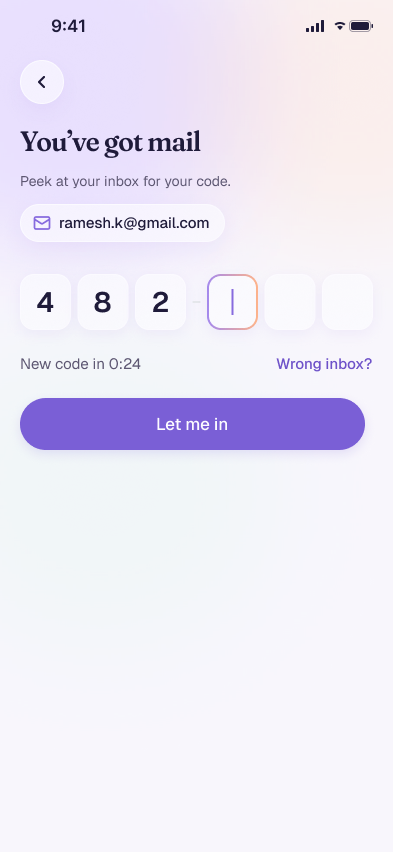
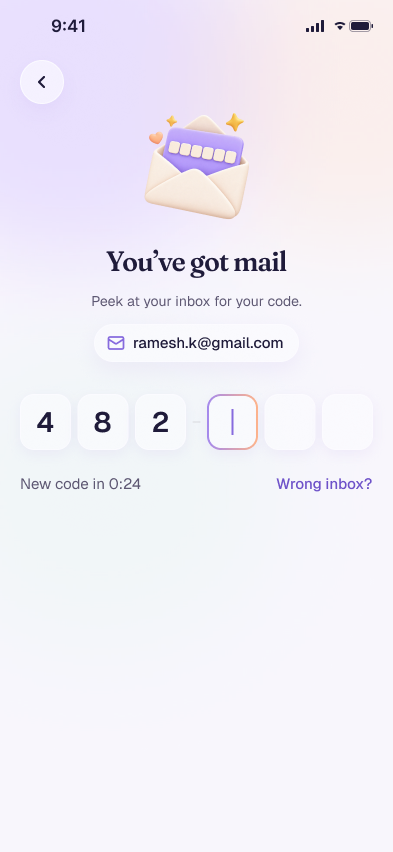
feat(case-study): refresh app screens from Figma, add 23 new ones; app moves to roomie-mobile.vercel.app
Six screens were out of date (code screens, welcome back, missed chore,
you're in, all set) and are replaced. New rows show the house plant growing
and a week of nudges, and the login, join, pantry and profile rows gain the
missing screens. Counts now read 73. The app has a clean address, and the
README, site links and deploy script point to it.

Changed region(s): [[0.0305, 0.1221, 0.9466, 0.5798], [0.0916, 0.3357, 0.1527, 0.3662], [0.916, 0.3967, 0.9466, 0.4272]]

diff --git a/apps/case-study/src/components/roomie/content/prototype.ts b/apps/case-study/src/components/roomie/content/prototype.ts
@@ -2,7 +2,7 @@
 export const prototypeHtml = `
 <section class="phase ph-pro" id="prototype">
   <div class="wrap">
-  <header class="phase-head"><span class="phi" aria-hidden="true"><svg viewBox="0 0 24 24"><rect x="6.5" y="2.5" width="11" height="19" rx="2.8"/><path d="M10.5 18.5h3M9.5 7h5M9.5 10.5h5"/></svg></span><span class="num">04</span><h2>Prototype</h2><b class="ess">Designed to lower the&nbsp;temperature.</b><p>From information architecture and a 38-screen map, through lo-fi wireframes, to 62 hi-fi screens and a visual identity built to lower the&nbsp;temperature.</p></header>
+  <header class="phase-head"><span class="phi" aria-hidden="true"><svg viewBox="0 0 24 24"><rect x="6.5" y="2.5" width="11" height="19" rx="2.8"/><path d="M10.5 18.5h3M9.5 7h5M9.5 10.5h5"/></svg></span><span class="num">04</span><h2>Prototype</h2><b class="ess">Designed to lower the&nbsp;temperature.</b><p>From information architecture and a 38-screen map, through lo-fi wireframes, to 73 hi-fi screens and a visual identity built to lower the&nbsp;temperature.</p></header>
 
   <div class="block">
     <h3>Information architecture</h3>
@@ -149,26 +149,32 @@ export const prototypeHtml = `
 
   <div class="block" id="final-screens">
     <h3>The final screens</h3>
-    <p class="muted narrow">47 of the 62 final screens. Scroll each row.</p>
+    <p class="muted narrow">69 of the 73 final screens. Scroll each row.</p>
     <div class="gallery">
-      <div><h4>Get in <span>5</span></h4><div class="strip" tabindex="0">
-        <figure class="phone"><img src="/assets/final/01-welcome.png" alt="Welcome" loading="lazy"></figure><figure class="phone"><img src="/assets/final/02-create-account.png" alt="Create account" loading="lazy"></figure><figure class="phone"><img src="/assets/final/03-log-in.png" alt="Log in" loading="lazy"></figure><figure class="phone"><img src="/assets/final/05-enter-code.png" alt="Enter code" loading="lazy"></figure><figure class="phone"><img src="/assets/final/06-welcome-back.png" alt="Welcome back" loading="lazy"></figure>
+      <div><h4>Get in <span>6</span></h4><div class="strip" tabindex="0">
+        <figure class="phone"><img src="/assets/final/01-welcome.png" alt="Welcome" loading="lazy"></figure><figure class="phone"><img src="/assets/final/02-create-account.png" alt="Create account" loading="lazy"></figure><figure class="phone"><img src="/assets/final/03-log-in.png" alt="Log in" loading="lazy"></figure><figure class="phone"><img src="/assets/final/04-log-in-with-email.png" alt="Log in with email" loading="lazy"></figure><figure class="phone"><img src="/assets/final/05-enter-code.png" alt="Enter code" loading="lazy"></figure><figure class="phone"><img src="/assets/final/06-welcome-back.png" alt="Welcome back" loading="lazy"></figure>
       </div></div>
-      <div><h4>Set up or join a home <span>9</span></h4><div class="strip" tabindex="0">
-        <figure class="phone"><img src="/assets/final/07-new-or-join.png" alt="New home or join" loading="lazy"></figure><figure class="phone"><img src="/assets/final/j1-enter-home-code.png" alt="Join: enter the home code" loading="lazy"></figure><figure class="phone"><img src="/assets/final/j4-youre-in.png" alt="Join: you’re in" loading="lazy"></figure><figure class="phone"><img src="/assets/final/08-name-home.png" alt="Name your home" loading="lazy"></figure><figure class="phone"><img src="/assets/final/09-pick-chores.png" alt="Pick chores" loading="lazy"></figure><figure class="phone"><img src="/assets/final/10-busy-days.png" alt="Busiest days" loading="lazy"></figure><figure class="phone"><img src="/assets/final/11-nudge-style.png" alt="Nudge style" loading="lazy"></figure><figure class="phone"><img src="/assets/final/12-invite.png" alt="Invite roommates" loading="lazy"></figure><figure class="phone"><img src="/assets/final/13-all-set.png" alt="All set" loading="lazy"></figure>
+      <div><h4>Set up or join a home <span>10</span></h4><div class="strip" tabindex="0">
+        <figure class="phone"><img src="/assets/final/07-new-or-join.png" alt="New home or join" loading="lazy"></figure><figure class="phone"><img src="/assets/final/j1-enter-home-code.png" alt="Join: enter the home code" loading="lazy"></figure><figure class="phone"><img src="/assets/final/j2-scan-qr.png" alt="Join: scan the QR code" loading="lazy"></figure><figure class="phone"><img src="/assets/final/j4-youre-in.png" alt="Join: you’re in" loading="lazy"></figure><figure class="phone"><img src="/assets/final/08-name-home.png" alt="Name your home" loading="lazy"></figure><figure class="phone"><img src="/assets/final/09-pick-chores.png" alt="Pick chores" loading="lazy"></figure><figure class="phone"><img src="/assets/final/10-busy-days.png" alt="Busiest days" loading="lazy"></figure><figure class="phone"><img src="/assets/final/11-nudge-style.png" alt="Nudge style" loading="lazy"></figure><figure class="phone"><img src="/assets/final/12-invite.png" alt="Invite roommates" loading="lazy"></figure><figure class="phone"><img src="/assets/final/13-all-set.png" alt="All set" loading="lazy"></figure>
       </div></div>
       <div><h4>Home <span>9</span></h4><div class="strip" tabindex="0">
         <figure class="phone"><img src="/assets/final/h0-first-day.png" alt="First day" loading="lazy"></figure><figure class="phone"><img src="/assets/final/h1-home.png" alt="Home" loading="lazy"></figure><figure class="phone"><img src="/assets/final/h2-why-these-chores.png" alt="Why these chores" loading="lazy"></figure><figure class="phone"><img src="/assets/final/h3-claimed.png" alt="Claimed" loading="lazy"></figure><figure class="phone"><img src="/assets/final/h4-missed-chore.png" alt="Missed chore" loading="lazy"></figure><figure class="phone"><img src="/assets/final/h5-chore-done.png" alt="Chore done" loading="lazy"></figure><figure class="phone"><img src="/assets/final/h6-all-done.png" alt="All done today" loading="lazy"></figure><figure class="phone"><img src="/assets/final/h7-friday.png" alt="A day with nothing due" loading="lazy"></figure><figure class="phone"><img src="/assets/final/h8-add-menu.png" alt="Add menu: chore, pantry item, restock, invite" loading="lazy"></figure>
       </div></div>
+      <div><h4>The house plant grows <span>6</span></h4><div class="strip" tabindex="0">
+        <figure class="phone"><img src="/assets/final/h0b-day-zero.png" alt="Day 0: let’s grow" loading="lazy"></figure><figure class="phone"><img src="/assets/final/h1a-seed.png" alt="Day 2: a seed" loading="lazy"></figure><figure class="phone"><img src="/assets/final/h1b-sprout.png" alt="Day 3: a sprout" loading="lazy"></figure><figure class="phone"><img src="/assets/final/h1c-leafy.png" alt="Day 7: leafy" loading="lazy"></figure><figure class="phone"><img src="/assets/final/m1-milestone.png" alt="Day 14: two weeks in bud" loading="lazy"></figure><figure class="phone"><img src="/assets/final/h1d-bloom.png" alt="Day 30: in bloom" loading="lazy"></figure>
+      </div></div>
       <div><h4>Chores <span>6</span></h4><div class="strip" tabindex="0">
         <figure class="phone"><img src="/assets/final/c1-todo.png" alt="To-do, mine" loading="lazy"></figure><figure class="phone"><img src="/assets/final/c1-whole-house.png" alt="To-do, whole house" loading="lazy"></figure><figure class="phone"><img src="/assets/final/c1c-shared-pool.png" alt="Shared pool" loading="lazy"></figure><figure class="phone"><img src="/assets/final/c2-calendar.png" alt="Calendar month" loading="lazy"></figure><figure class="phone"><img src="/assets/final/c3-week.png" alt="Calendar week" loading="lazy"></figure><figure class="phone"><img src="/assets/final/c4-add-chore.png" alt="Add chore" loading="lazy"></figure>
       </div></div>
-      <div><h4>Pantry <span>9</span></h4><div class="strip" tabindex="0">
-        <figure class="phone"><img src="/assets/final/p1-pantry.png" alt="Shared pantry" loading="lazy"></figure><figure class="phone"><img src="/assets/final/p1f-restock.png" alt="Restock request" loading="lazy"></figure><figure class="phone"><img src="/assets/final/p2-my-items.png" alt="My items" loading="lazy"></figure><figure class="phone"><img src="/assets/final/p2c-add-menu.png" alt="Add menu" loading="lazy"></figure><figure class="phone"><img src="/assets/final/p2e-add-shared.png" alt="Add to pantry, shared" loading="lazy"></figure><figure class="phone"><img src="/assets/final/p2d-add-personal.png" alt="Add to pantry, personal" loading="lazy"></figure><figure class="phone"><img src="/assets/final/p3-roommates.png" alt="Roommates’ shelves" loading="lazy"></figure>
+      <div><h4>Pantry <span>11</span></h4><div class="strip" tabindex="0">
+        <figure class="phone"><img src="/assets/final/p1-pantry.png" alt="Shared pantry" loading="lazy"></figure><figure class="phone"><img src="/assets/final/p1e-item-menu.png" alt="Pantry item menu" loading="lazy"></figure><figure class="phone"><img src="/assets/final/p1f-restock.png" alt="Restock request" loading="lazy"></figure><figure class="phone"><img src="/assets/final/p2-my-items.png" alt="My items" loading="lazy"></figure><figure class="phone"><img src="/assets/final/p2b-item-menu.png" alt="My items menu" loading="lazy"></figure><figure class="phone"><img src="/assets/final/p2c-add-menu.png" alt="Add menu" loading="lazy"></figure><figure class="phone"><img src="/assets/final/p2e-add-shared.png" alt="Add to pantry, shared" loading="lazy"></figure><figure class="phone"><img src="/assets/final/p2d-add-personal.png" alt="Add to pantry, personal" loading="lazy"></figure><figure class="phone"><img src="/assets/final/p3-roommates.png" alt="Roommates’ shelves" loading="lazy"></figure>
       <figure class="phone"><img src="/assets/final/p2f-pick-icon.png" alt="Pick an icon, with one picked for you" loading="lazy"></figure><figure class="phone"><img src="/assets/final/p2g-pick-icon-none.png" alt="No icon yet: closest matches or a letter tile" loading="lazy"></figure></div></div>
-      <div><h4>Profile, settings &amp; notifications <span>9</span></h4><div class="strip" tabindex="0">
-        <figure class="phone"><img src="/assets/final/r1-profile.png" alt="Profile" loading="lazy"></figure><figure class="phone"><img src="/assets/final/r4-roommates.png" alt="Roommates" loading="lazy"></figure><figure class="phone"><img src="/assets/final/r5-house-chores.png" alt="House chores: edit or remove any chore" loading="lazy"></figure><figure class="phone"><img src="/assets/final/r6-invite.png" alt="Invite roommates" loading="lazy"></figure><figure class="phone"><img src="/assets/final/r7-busy-days.png" alt="My busy days" loading="lazy"></figure><figure class="phone"><img src="/assets/final/r8-nudge-style.png" alt="Nudge style" loading="lazy"></figure><figure class="phone"><img src="/assets/final/r9-notifications.png" alt="Notifications" loading="lazy"></figure><figure class="phone"><img src="/assets/final/lock-screen.png" alt="Lock-screen nudge" loading="lazy"></figure>
-      <figure class="phone"><img src="/assets/final/r13-leave-home.png" alt="Leave home: your chores go to the shared pool" loading="lazy"></figure></div></div>
+      <div><h4>Profile, settings &amp; notifications <span>17</span></h4><div class="strip" tabindex="0">
+        <figure class="phone"><img src="/assets/final/r1-profile.png" alt="Profile" loading="lazy"></figure><figure class="phone"><img src="/assets/final/r2-edit-profile.png" alt="Edit profile" loading="lazy"></figure><figure class="phone"><img src="/assets/final/r3-home-name.png" alt="Home name" loading="lazy"></figure><figure class="phone"><img src="/assets/final/r4-roommates.png" alt="Roommates" loading="lazy"></figure><figure class="phone"><img src="/assets/final/r5-house-chores.png" alt="House chores: edit or remove any chore" loading="lazy"></figure><figure class="phone"><img src="/assets/final/r5b-chore-menu.png" alt="House chores menu" loading="lazy"></figure><figure class="phone"><img src="/assets/final/r5c-edit-chore.png" alt="Edit a chore" loading="lazy"></figure><figure class="phone"><img src="/assets/final/r6-invite.png" alt="Invite roommates" loading="lazy"></figure><figure class="phone"><img src="/assets/final/r7-busy-days.png" alt="My busy days" loading="lazy"></figure><figure class="phone"><img src="/assets/final/r8-nudge-style.png" alt="Nudge style" loading="lazy"></figure><figure class="phone"><img src="/assets/final/r9-notifications.png" alt="Notifications" loading="lazy"></figure><figure class="phone"><img src="/assets/final/r10-email.png" alt="Email" loading="lazy"></figure><figure class="phone"><img src="/assets/final/r11-help.png" alt="Help and feedback" loading="lazy"></figure><figure class="phone"><img src="/assets/final/r12-privacy.png" alt="Privacy and terms" loading="lazy"></figure><figure class="phone"><img src="/assets/final/lock-screen.png" alt="Lock-screen nudge" loading="lazy"></figure>
+      <figure class="phone"><img src="/assets/final/r13-leave-home.png" alt="Leave home: your chores go to the shared pool" loading="lazy"></figure><figure class="phone"><img src="/assets/final/r14-log-out.png" alt="Log out" loading="lazy"></figure></div></div>
+      <div><h4>A week of nudges <span>5</span></h4><div class="strip" tabindex="0">
+        <figure class="phone"><img src="/assets/final/w0-busy-days.png" alt="Busy days: Tue, Wed, Fri" loading="lazy"></figure><figure class="phone"><img src="/assets/final/w1-lock-chore-slipped.png" alt="Lock screen: a chore slipped" loading="lazy"></figure><figure class="phone"><img src="/assets/final/w3-pantry-priya.png" alt="Pantry: Priya’s getting it" loading="lazy"></figure><figure class="phone"><img src="/assets/final/w4-lock-priya-milk.png" alt="Lock screen: Priya’s on the milk" loading="lazy"></figure><figure class="phone"><img src="/assets/final/w5-sunday-all-done.png" alt="Sunday: all done" loading="lazy"></figure>
+      </div></div>
     </div>
   </div>
 
@@ -180,7 +186,7 @@ export const prototypeHtml = `
 
   <div class="block ds" id="design-system">
     <h3>The design system</h3>
-    <p class="muted narrow">Every one of the 62 screens is built from one Figma library. Colours, type, spacing and components are tokens and main components, so a change in one place reaches every&nbsp;screen.</p>
+    <p class="muted narrow">Every one of the 73 screens is built from one Figma library. Colours, type, spacing and components are tokens and main components, so a change in one place reaches every&nbsp;screen.</p>
     <div class="dsfacts"><div><strong>34</strong><span>colour tokens, each pointing to a primitive</span></div><div><strong>16</strong><span>text styles in two typefaces</span></div><div><strong>14</strong><span>spacing and radius tokens on an 8&nbsp;pt rhythm</span></div><div><strong>50+</strong><span>components, from tags to full sheets</span></div></div>
 
     <h4>Colour</h4>

diff --git a/apps/case-study/src/components/roomie/hero.tsx b/apps/case-study/src/components/roomie/hero.tsx
@@ -40,7 +40,7 @@ export function Hero() {
         <div><dt>Role</dt><dd>Lead Graphic Designer, leading research, UX, UI and brand</dd></div>
         <div><dt>Timeline</dt><dd>2 weeks</dd></div>
         <div><dt>Tools</dt><dd>Figma, Mobbin, Notion and AI tools</dd></div>
-        <div><dt>Delivered</dt><dd>60+ hi-fi screens, a 50+ component library, a 36-page brand book and a marketing site</dd></div>
+        <div><dt>Delivered</dt><dd>70+ hi-fi screens, a 50+ component library, a 36-page brand book and a marketing site</dd></div>
       </dl>
       {/* Tentative (#10): reading time + skim path. Delete this <p> to drop it. */}
       <p className="skim">

diff --git a/apps/case-study/src/components/roomie/tldr.tsx b/apps/case-study/src/components/roomie/tldr.tsx
@@ -20,7 +20,7 @@ const cards = [
     icon: "rocket-launch",
     tone: "green",
     title: "A focused V1, ready to test",
-    body: "62 hi-fi screens across onboarding, home, chores, pantry and settings, on one design system. Money and AI features are planned for Phase 2. It hasn't been tested yet; the plan is in section 05.",
+    body: "73 hi-fi screens across onboarding, home, chores, pantry and settings, on one design system. Money and AI features are planned for Phase 2. It hasn't been tested yet; the plan is in section 05.",
   },
 ];
 

diff --git a/apps/site/src/ui/TryRoomie.tsx b/apps/site/src/ui/TryRoomie.tsx
@@ -1,6 +1,6 @@
 import "./ui.css";
 
-export const PROTOTYPE_URL = "https://roomie-app-v2-delta.vercel.app";
+export const PROTOTYPE_URL = "https://roomie-mobile.vercel.app";
 
 /** The one live call to action: opens the interactive prototype. A gradient ring travels round it on hover. */
 export function TryRoomie({ className = "", size = "md", label = "Try Roomie" }: { className?: string; size?: "md" | "lg"; label?: string }) {

diff --git a/apps/site/src/sections/Faq.tsx b/apps/site/src/sections/Faq.tsx
@@ -1,6 +1,6 @@
 import "./faq.css";
 
-const PROTOTYPE = "https://roomie-app-v2-delta.vercel.app";
+const PROTOTYPE = "https://roomie-mobile.vercel.app";
 
 const FAQS: { q: string; a: string[] }[] = [
   {

diff --git a/README.md b/README.md
@@ -5,7 +5,7 @@
 
 **Fair chores and a shared pantry for roommates. No nagging.**
 
-[**Try the app**](https://roomie-app-v2-delta.vercel.app) · [**Website**](https://meetroomie.vercel.app) · [**Case study**](https://roomie-case-study.vercel.app)
+[**Try the app**](https://roomie-mobile.vercel.app) · [**Website**](https://meetroomie.vercel.app) · [**Case study**](https://roomie-case-study.vercel.app)
 
 ![Expo](https://img.shields.io/badge/Expo-SDK%2057-1F1B3A?style=flat-square&logo=expo&logoColor=white)
 ![React Native](https://img.shields.io/badge/React%20Native-0.86-1F1B3A?style=flat-square&logo=react&logoColor=61DAFB)
@@ -25,7 +25,7 @@ It is a UX case study and product design project by **Pema Ghising**, taken all 
 
 | | What it is | Live |
 | --- | --- | --- |
-| [`apps/mobile`](apps/mobile) | The Roomie app for iPhone and Android (Expo, React Native). Also runs on the web inside a phone frame | [roomie-app-v2-delta.vercel.app](https://roomie-app-v2-delta.vercel.app) · Expo Go |
+| [`apps/mobile`](apps/mobile) | The Roomie app for iPhone and Android (Expo, React Native). Also runs on the web inside a phone frame | [roomie-mobile.vercel.app](https://roomie-mobile.vercel.app) · Expo Go |
 | [`supabase`](supabase) | The backend: a Postgres database where each person only sees their own home, a server check on every change, the job that plans the week and sends reminders, and the chore-splitting logic the app shares | Supabase |
 | [`apps/site`](apps/site) | The marketing website: features, a week in a shared flat, the pantry | [meetroomie.vercel.app](https://meetroomie.vercel.app) |
 | [`apps/case-study`](apps/case-study) | The design-thinking case study, from research to reflection | [roomie-case-study.vercel.app](https://roomie-case-study.vercel.app) |
